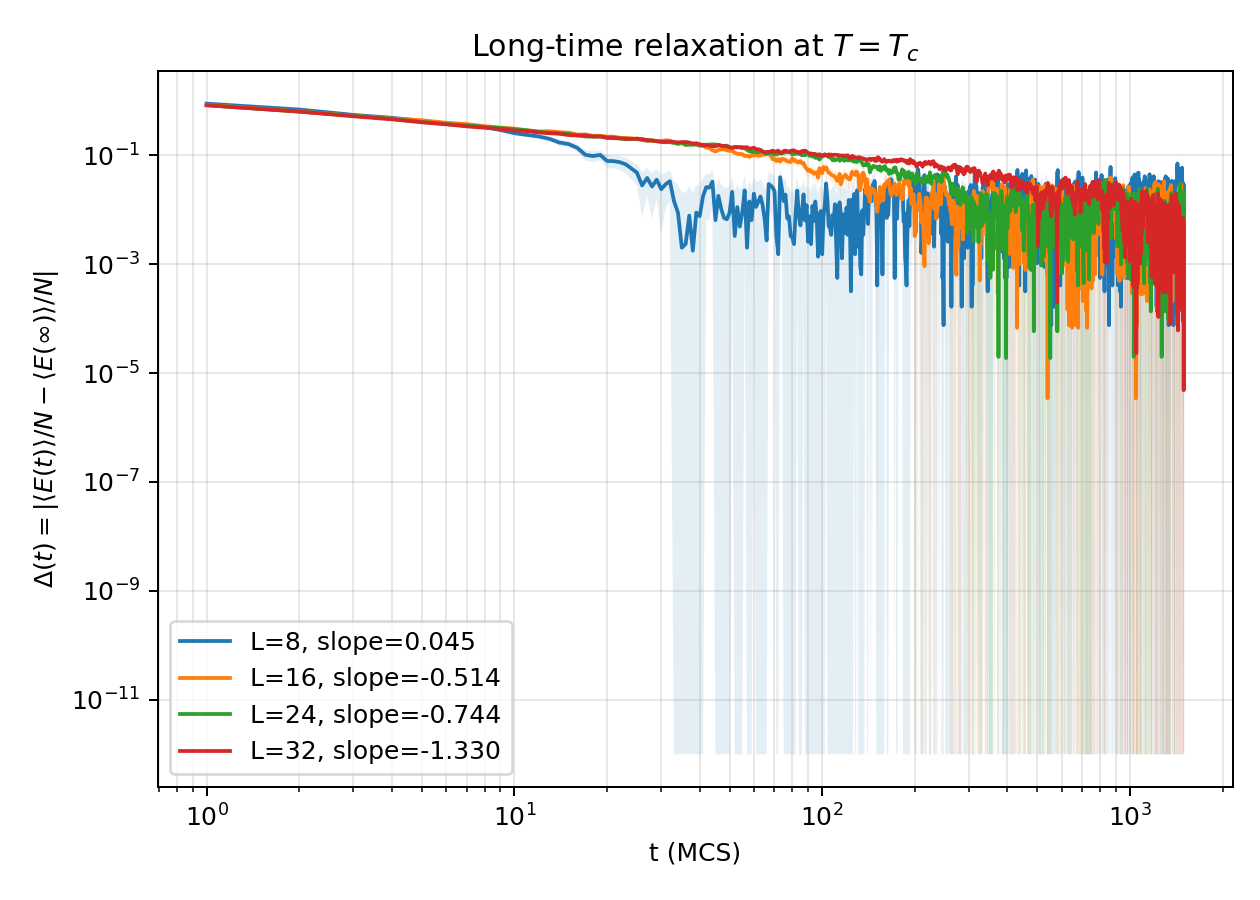
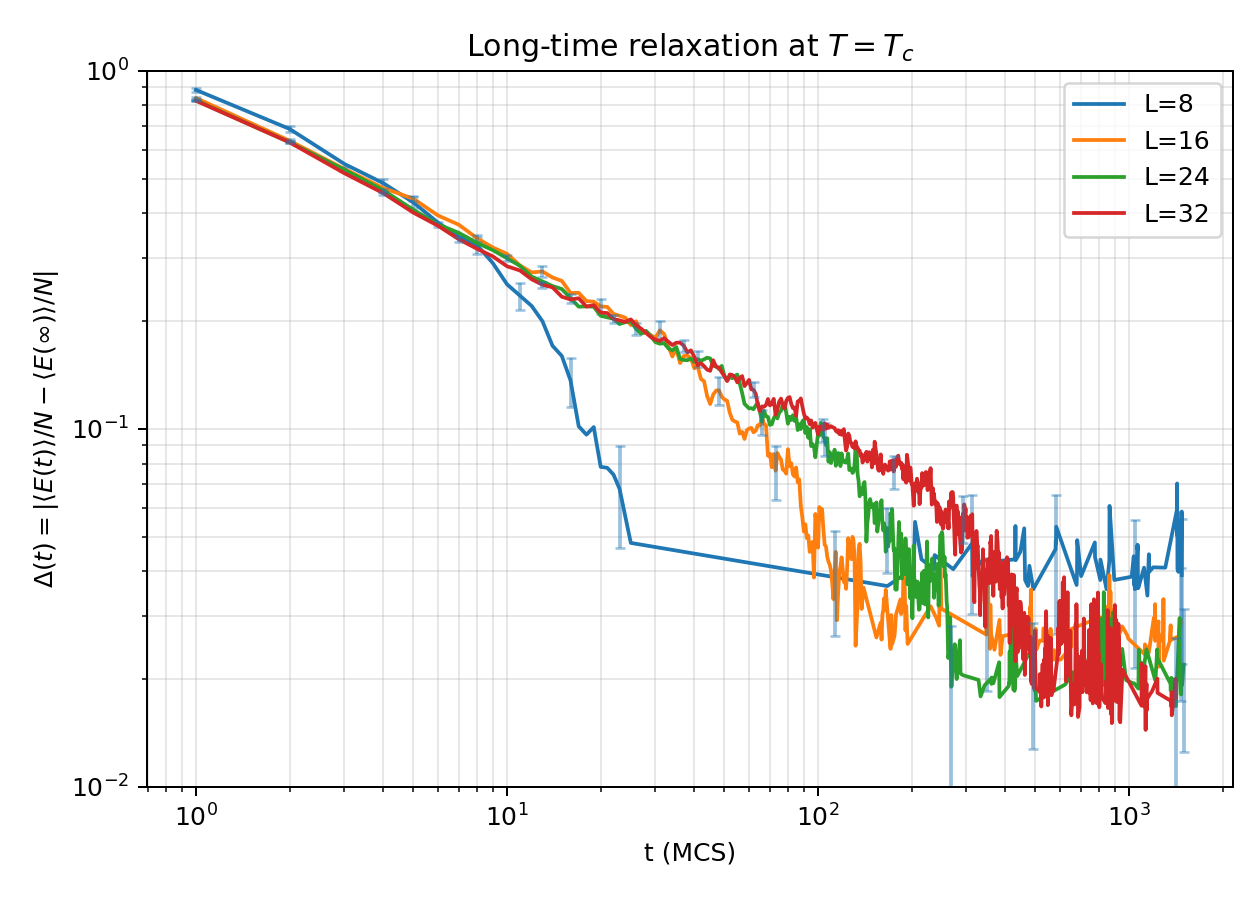
Improve HW-8 relaxation plot

diff --git a/Computational Physics/HW-8/part_b.py b/Computational Physics/HW-8/part_b.py
@@ -54,6 +54,14 @@ def fit_power_law(ts: np.ndarray, ys: np.ndarray) -> tuple[float, float]:
     return a, b
 
 
+def sparse_log_indices(mask: np.ndarray, n_points: int = 14) -> np.ndarray:
+    idx = np.flatnonzero(mask)
+    if len(idx) <= n_points:
+        return idx
+    chosen = np.unique(np.geomspace(1, len(idx), n_points).astype(int) - 1)
+    return idx[chosen]
+
+
 def main() -> None:
     # L=16 energy relaxation
     steps16 = 1200
@@ -97,7 +105,8 @@ def main() -> None:
         t = np.arange(1, steps + 1)
         d = delta[1:]
 
-        mask = (t >= 150) & (t <= 1200) & (d > 0)
+        reliable = (d > 2.0 * delta_err[1:]) & (d > 0)
+        mask = (t >= 10) & (t <= 150) & reliable
         slope, intercept = fit_power_law(t[mask], d[mask])
 
         all_data[str(L)] = {
@@ -108,12 +117,23 @@ def main() -> None:
             "delta_err_t": delta_err.tolist(),
         }
 
-        plt.loglog(t, d, label=f"L={L}, slope={slope:.3f}")
-        plt.fill_between(t, np.maximum(d - delta_err[1:], 1e-12), d + delta_err[1:], alpha=0.12, linewidth=0)
+        plt.loglog(t[reliable], d[reliable], lw=1.5, label=f"L={L}")
+        err_idx = sparse_log_indices(reliable)
+        yerr_low = np.minimum(delta_err[1:][err_idx], 0.8 * d[err_idx])
+        yerr_high = delta_err[1:][err_idx]
+        plt.errorbar(
+            t[err_idx],
+            d[err_idx],
+            yerr=np.vstack([yerr_low, yerr_high]),
+            fmt="none",
+            capsize=2,
+            alpha=0.45,
+        )
 
     plt.xlabel("t (MCS)")
     plt.ylabel(r"$\Delta(t)=|\langle E(t)\rangle/N-\langle E(\infty)\rangle/N|$")
     plt.title("Long-time relaxation at $T=T_c$")
+    plt.ylim(1e-2, 1.0)
     plt.grid(alpha=0.3, which="both")
     plt.legend()
     plt.tight_layout()
